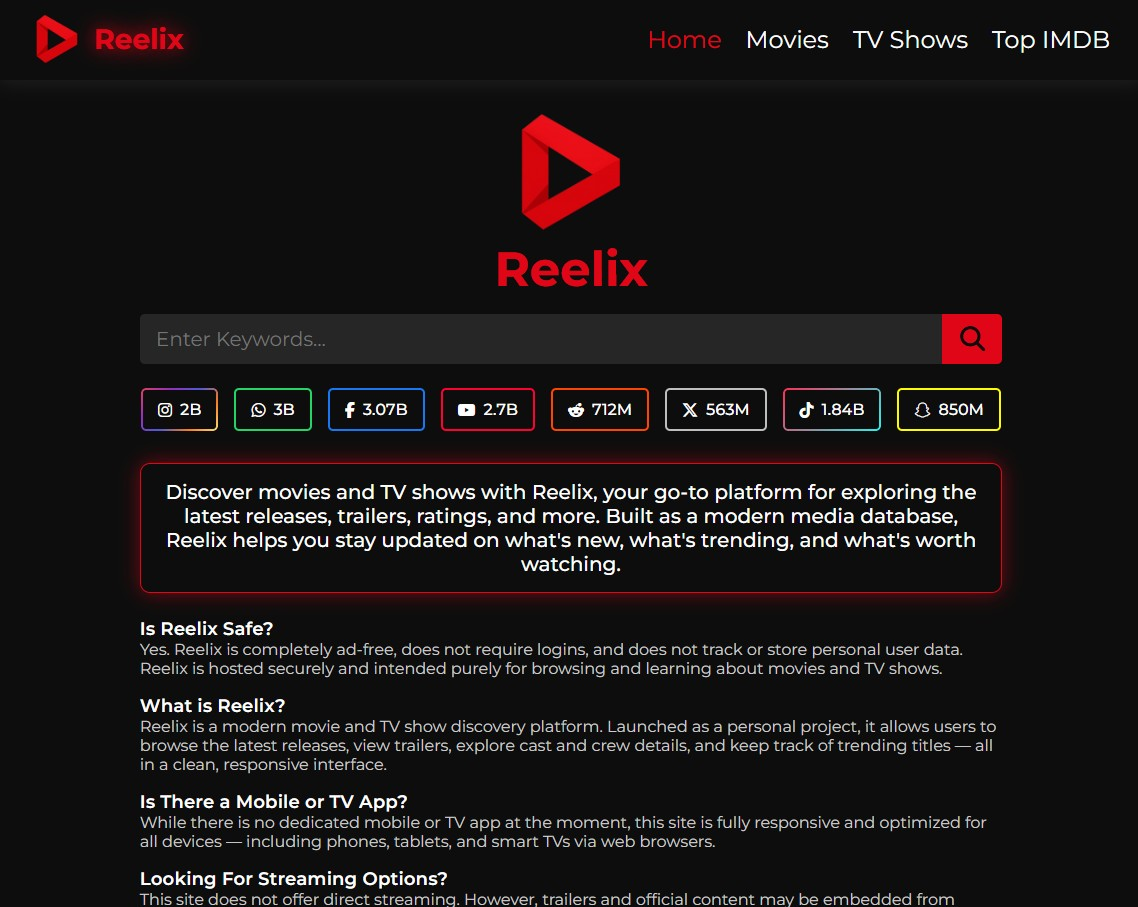
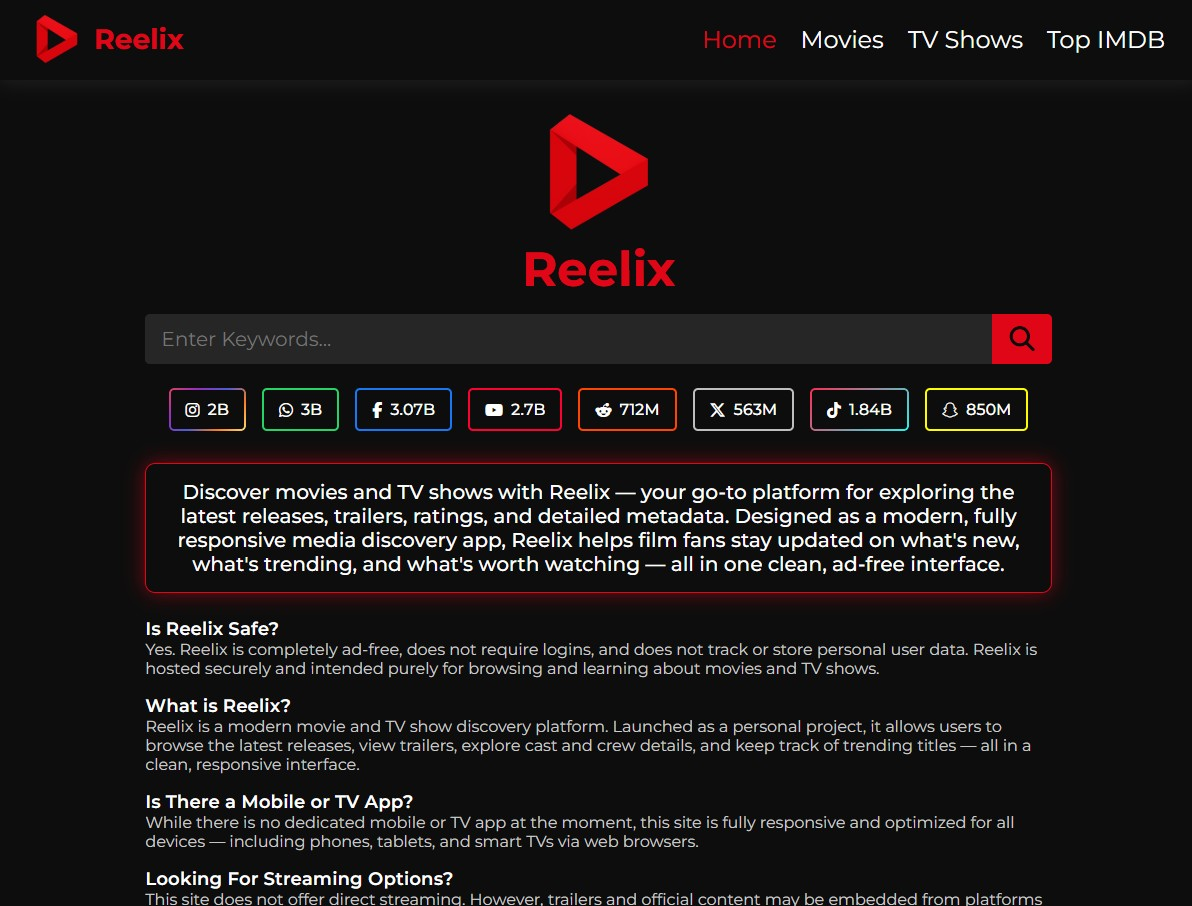
Polished accordion to aligned with overall styles

diff --git a/src/pages/Home.jsx b/src/pages/Home.jsx
@@ -74,9 +74,10 @@ function Home() {
           {/* Informational Text */}
           <section className={styles.informationalText}>
             <p className={styles.description}>
-              Discover movies and TV shows with Reelix, your go-to platform for exploring the latest releases, trailers,
-              ratings, and more. Built as a modern media database, Reelix helps you stay updated on what's new, what's
-              trending, and what's worth watching.
+              Discover movies and TV shows with Reelix — your go-to platform for exploring the latest releases,
+              trailers, ratings, and detailed metadata. Designed as a modern, fully responsive media discovery app,
+              Reelix helps film fans stay updated on what's new, what's trending, and what's worth watching — all in one
+              clean, ad-free interface.
             </p>
             <p className={styles.subheading}>Is Reelix Safe?</p>
             <p className={styles.text}>
@@ -99,14 +100,6 @@ function Home() {
               This site does not offer direct streaming. However, trailers and official content may be embedded from
               platforms like YouTube. If you're interested in watching a film or show, we recommend checking licensed
               providers like Netflix, Hulu, Prime Video, or Disney+.
-            </p>
-          </section>
-          {/* Review Text */}
-          <section className={styles.reviewText}>
-            <p className={styles.description}>
-              Although Reelix began as a personal project, it has grown into a fully responsive movie and TV show
-              discovery app used by film fans to explore new releases, watch trailers, and view detailed metadata — all
-              in one clean, ad-free interface.
             </p>
           </section>
           {/* Review Text Accordion */}

diff --git a/src/pages/Home.module.css b/src/pages/Home.module.css
@@ -202,20 +202,15 @@ main {
   box-shadow: 0 0 15px #bebebe;
 }
 
-.informationalText,
-.reviewText {
+.informationalText {
   width: 80%;
   color: white;
   min-width: 80%;
+  margin-bottom: 1rem;
   transition: 0.3s ease-in;
 }
 
-.informationalText {
-  margin-bottom: 1rem;
-}
-
-.informationalText > .description,
-.reviewText > .description {
+.informationalText > .description {
   padding: 1rem;
   font-weight: 500;
   font-size: 1.25rem;
@@ -307,7 +302,7 @@ main {
 
   .informationalText > .description,
   .reviewText > .description {
-    font-size: 1.15rem;
+    font-size: 1rem;
     margin-bottom: 1.25rem;
   }
 
@@ -387,7 +382,7 @@ main {
 
   .informationalText > .description,
   .reviewText > .description {
-    font-size: 1rem;
+    font-size: 0.85rem;
     margin-bottom: 1rem;
   }
 
@@ -404,6 +399,7 @@ main {
 
   .viewMovies {
     font-size: 1rem;
+    font-weight: 500;
     padding: 0.5rem 0.75rem;
   }
 }

diff --git a/src/components/Accordion/Accordion.module.css b/src/components/Accordion/Accordion.module.css
@@ -1,8 +1,8 @@
 .accordion {
   gap: 1rem;
-  width: 75%;
+  width: 100%;
   display: flex;
-  min-width: 75%;
+  max-width: 80%;
   color: white;
   flex-direction: column;
 }
@@ -62,4 +62,43 @@
 
 .active .icon {
   transform: rotate(180deg);
+}
+
+@media (max-width: 768px) {
+  .accordion {
+    width: 90%;
+    min-width: unset;
+  }
+
+  .accordionHeader {
+    font-size: 1rem;
+    padding: 0.65rem 0.85rem;
+  }
+
+  .icon {
+    font-size: 1.5rem;
+  }
+
+  .accordionBody p {
+    font-size: 0.95rem;
+  }
+}
+
+@media (max-width: 480px) {
+  .accordion {
+    width: 95%;
+  }
+
+  .accordionHeader {
+    font-size: 0.95rem;
+    padding: 0.5rem 0.75rem;
+  }
+
+  .icon {
+    font-size: 1.25rem;
+  }
+
+  .accordionBody p {
+    font-size: 0.9rem;
+  }
 }
